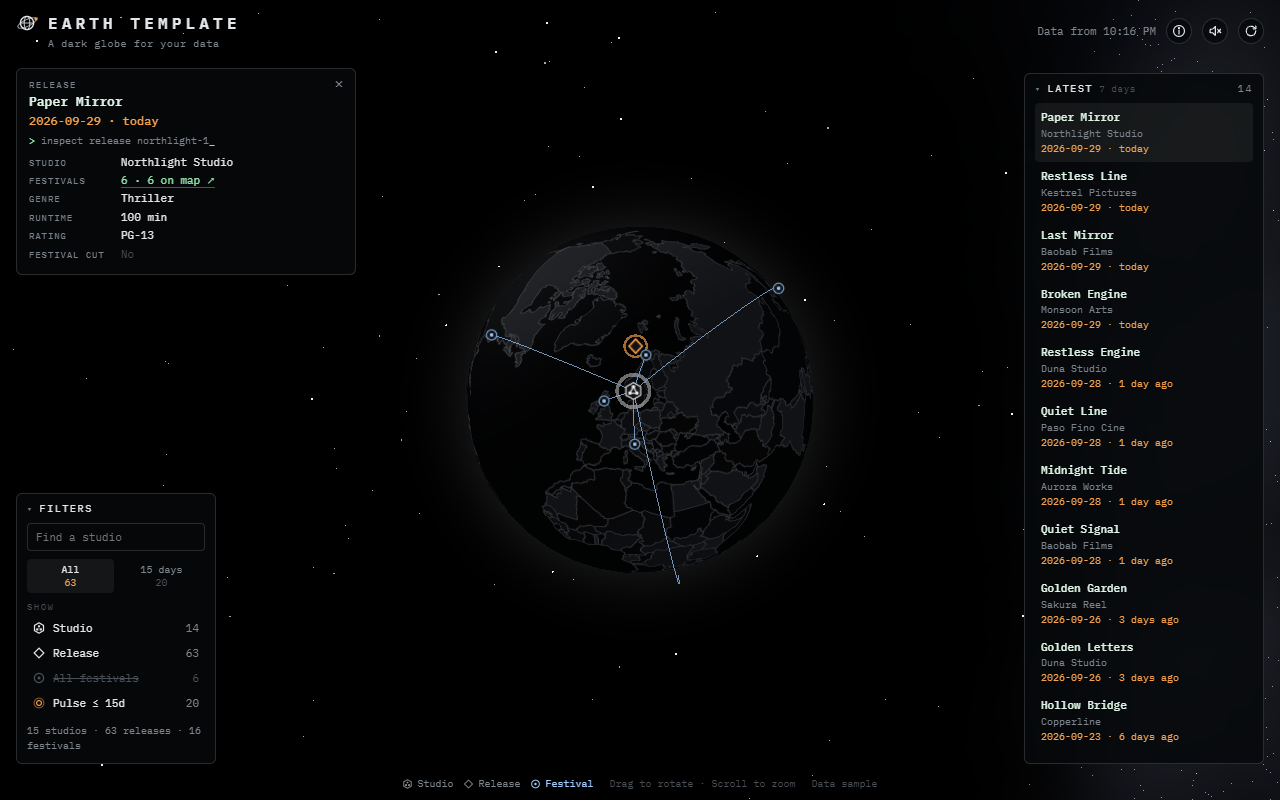
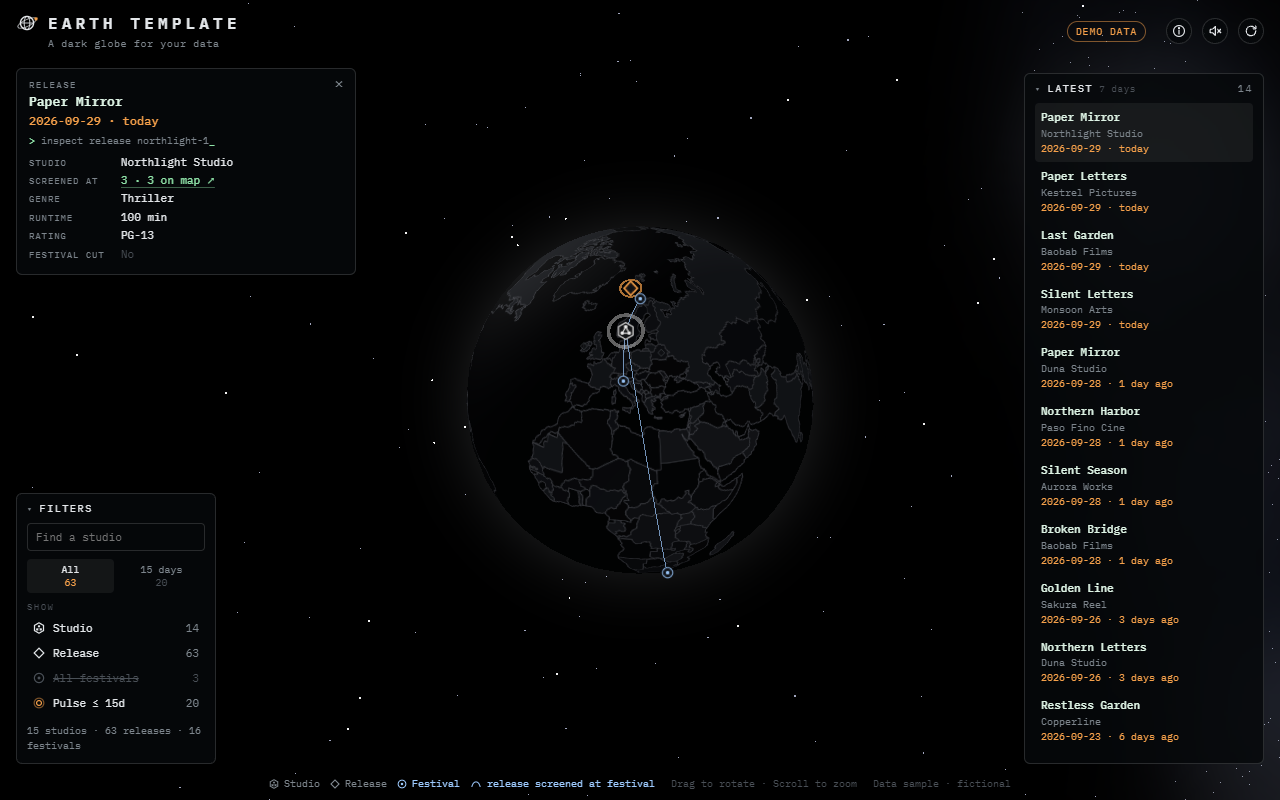
Make the demo data obviously fake and say what arcs mean
Add config.link so cards and the legend name the relationship an arc shows,
and config.demo for a "Demo data" badge that replaces the fake timestamp.
Sample releases link to fewer festivals, and the docs say the links are random.
Recapture the README media.

diff --git a/src/app.ts b/src/app.ts
@@ -62,6 +62,7 @@ function paintChrome() {
   setText("#key-hub", K.hub.one);
   setText("#key-item", K.item.one);
   setText("#key-node", K.node.one);
+  setText("#key-arc", `${low(K.item.one)} ${config.link.item} ${low(K.node.one)}`);
   $("#cat-node").title = `Show every ${low(K.node.one)}, not just the ones tied to your selection`;
 
   setText("#about-title", config.name);
@@ -77,6 +78,10 @@ function paintChrome() {
     wrap.append(dt, dd);
     rows.append(wrap);
   }
+  const demoBadge = $("#demo-badge");
+  demoBadge.hidden = !config.demo;
+  demoBadge.textContent = config.copy.demo;
+  demoBadge.title = config.copy.demoTitle;
   const credit = $("#credit");
   credit.append(`${config.credit.label} `);
   if (config.credit.href) {
@@ -363,7 +368,7 @@ function paintCounts(shownHubs: HubRow[], pinnedNodes: NodeRow[]) {
   setText("#count-item", String(recentOnly ? fresh : items.length));
   setText("#count-node", String(pinnedNodes.filter((row) => spot(row)).length));
   setText("#count-pulse", String(fresh));
-  if (!clockHold) clockEl.textContent = updatedAt ? config.copy.stamp(clock(new Date(updatedAt))) : "";
+  if (!clockHold) clockEl.textContent = stampText();
   if (!globe.ready) statusEl.textContent = config.copy.noWebGL;
   else if (notice) statusEl.textContent = notice;
   else statusEl.textContent = `${hubs.length} ${low(K.hub.many)} · ${items.length} ${low(K.item.many)} · ${nodes.length} ${low(K.node.many)}`;
@@ -428,7 +433,7 @@ function paintCard(hub: HubRow | null, item: ItemRow | null, itemNodes: NodeRow[
     const owners = [...new Set(linked.map((row) => hubById.get(row.hub)?.name).filter(Boolean))];
     kind(K.node.one, node.id);
     setText("#card-name", node.name);
-    setText("#card-when", `${linked.length} ${low(linked.length === 1 ? K.item.one : K.item.many)} linked`);
+    setText("#card-when", `${linked.length} ${low(linked.length === 1 ? K.item.one : K.item.many)} ${config.link.node}`);
     if (item) addFact(body, "For", item.name);
     addFact(body, K.hub.many, owners.join(" · ") || "—");
     addFact(body, "Place", node.place ?? "No pin");
@@ -440,8 +445,9 @@ function paintCard(hub: HubRow | null, item: ItemRow | null, itemNodes: NodeRow[
     setText("#card-name", item.name);
     setText("#card-when", dateLine(item));
     addFact(body, K.hub.one, hub.name);
-    if (mapped.length) addFact(body, K.node.many, summary, () => frameNodes(hub, mapped));
-    else addFact(body, K.node.many, summary);
+    const arcLabel = config.link.item[0].toUpperCase() + config.link.item.slice(1);
+    if (mapped.length) addFact(body, arcLabel, summary, () => frameNodes(hub, mapped));
+    else addFact(body, arcLabel, summary);
     extra(item.facts);
   } else if (hub) {
     const own = hubItems(hub.id);
@@ -541,12 +547,16 @@ function capCard() {
 
 /** While set, the top-bar time shows a short message instead of the data time. */
 let clockHold = 0;
+/** The "Data from …" line. Sample data has no real time to show, so demo mode leaves it blank. */
+function stampText() {
+  return updatedAt && !config.demo ? config.copy.stamp(clock(new Date(updatedAt))) : "";
+}
 function flashClock(message: string) {
   window.clearTimeout(clockHold);
   clockEl.textContent = message;
   clockHold = window.setTimeout(() => {
     clockHold = 0;
-    clockEl.textContent = updatedAt ? config.copy.stamp(clock(new Date(updatedAt))) : "";
+    clockEl.textContent = stampText();
   }, 3500);
 }
 

diff --git a/src/config.ts b/src/config.ts
@@ -29,6 +29,19 @@ export const config = {
   } satisfies Record<"hub" | "item" | "node", KindName>,
 
   /**
+   * What an arc means, in words. Selecting an item draws arcs from its hub to each node it links to.
+   * item: the item's side ("Release screened at 5 festivals"). node: the node's side ("3 releases screened here").
+   * The legend at the bottom reads "release screened at festival" from these, so a visitor never has to guess.
+   */
+  link: { item: "screened at", node: "screened here" },
+
+  /**
+   * Set to true while the app shows sample data: a "Demo data" badge appears in the top bar and the
+   * "Data from …" timestamp is hidden, so nobody mistakes the sample for live data. Remove it (or set false) with real data.
+   */
+  demo: true,
+
+  /**
    * Dates on items drive the "recent" window, the Latest list, and the pulse on fresh hubs.
    * Set `enabled: false` if your items have no dates; those three parts are hidden.
    */
@@ -49,6 +62,7 @@ export const config = {
       "A dark, interactive Earth with a space backdrop, sound, and cards. The data shown here is a sample: fictional studios, releases, and festivals.",
     rows: [
       { label: "Data", html: "Sample data generated in <code>data/sample.ts</code>. Replace it with your own." },
+      { label: "Arcs", html: "An arc joins an item's hub to a node it is linked to. In the sample the links are random, so the arcs mean nothing." },
       { label: "Map", html: "Natural Earth country outlines, via world-atlas." },
       {
         label: "License",
@@ -59,11 +73,13 @@ export const config = {
   },
 
   /** The credit in the footer. Leave `href` empty for plain text. */
-  credit: { label: "Data", text: "sample", href: "" },
+  credit: { label: "Data", text: "sample · fictional", href: "" },
 
   /** Status and notice wording. */
   copy: {
     loading: "Loading…",
+    demo: "Demo data",
+    demoTitle: "This is made-up sample data, not real",
     stamp: (time: string) => `Data from ${time}`,
     refreshTitle: "Check for newer data",
     upToDate: "Up to date",

diff --git a/src/style.css b/src/style.css
@@ -50,6 +50,18 @@ button { cursor: pointer; }
 .dot { width: 7px; height: 7px; border-radius: 50%; background: var(--ink); box-shadow: 0 0 0 2px rgba(255, 255, 255, 0.12); }
 .topbar-right { display: flex; align-items: center; gap: 10px; }
 .clock { color: var(--muted); font-size: 11px; }
+/* Shown while config.demo is on, so sample data is never mistaken for real data. */
+.demo-badge {
+  padding: 3px 8px;
+  border: 1px solid rgba(245, 160, 74, 0.5);
+  border-radius: 999px;
+  color: var(--accent);
+  font-size: 10px;
+  letter-spacing: 0.08em;
+  text-transform: uppercase;
+  white-space: nowrap;
+}
+.demo-badge[hidden] { display: none; }
 .icon-btn {
   display: grid;
   place-items: center;
@@ -239,6 +251,8 @@ button { cursor: pointer; }
 .hint .key span { display: inline-flex; align-items: center; gap: 5px; }
 .hint .key .mark { width: 10px; height: 10px; }
 .hint .key .node { color: var(--node); }
+.hint .key .arc { color: var(--node); }
+.hint .key .arc .mark { width: 12px; }
 .hint .credit a { pointer-events: auto; color: var(--muted); text-underline-offset: 3px; }
 .hint .credit a:hover { color: var(--ink); }
 
@@ -358,8 +372,11 @@ button { cursor: pointer; }
 }
 /* Phones: the bottom belongs to the panels and the sheet, so the legend sits under the logo. */
 @media (max-width: 600px) {
-  .hint { top: 58px; bottom: auto; left: 16px; transform: none; gap: 12px; }
+  .hint { top: 58px; bottom: auto; left: 16px; transform: none; gap: 4px 12px; flex-wrap: wrap; max-width: calc(100vw - 132px); }
+  .hint .key { flex-wrap: wrap; gap: 4px 10px; }
   .clock { display: none; }
+  /* No room in the top bar on a phone, so the badge sits at the right edge of the legend row. */
+  .demo-badge { position: fixed; top: 56px; right: 16px; z-index: 3; }
   #app[data-card="open"] .hint { display: flex; }
   .about { top: auto; bottom: 0; right: 0; left: 0; width: 100%; max-height: 60vh; border-radius: 12px 12px 0 0; }
 }

diff --git a/index.html b/index.html
@@ -21,6 +21,7 @@
           <p class="tagline" id="tagline"></p>
         </div>
         <div class="topbar-right">
+          <span id="demo-badge" class="demo-badge" hidden></span>
           <span id="clock" class="clock"></span>
           <button id="about-btn" class="icon-btn" type="button" aria-expanded="false" aria-controls="about">
             <svg viewBox="0 0 16 16" width="14" height="14" aria-hidden="true"><circle cx="8" cy="8" r="6.2" fill="none" stroke="currentColor" stroke-width="1.3"/><path d="M8 7.2v4" stroke="currentColor" stroke-width="1.4" stroke-linecap="round"/><circle cx="8" cy="4.9" r=".9" fill="currentColor"/></svg>
@@ -92,6 +93,7 @@
           <span><svg class="mark" viewBox="0 0 12 12" aria-hidden="true"><path d="M6 .8 10.5 3.4v5.2L6 11.2 1.5 8.6V3.4Z" fill="none" stroke="currentColor" stroke-width="1.2"/><circle cx="6" cy="4.3" r="1.1" fill="currentColor"/><circle cx="4.2" cy="7.4" r="1.1" fill="currentColor"/><circle cx="7.8" cy="7.4" r="1.1" fill="currentColor"/></svg><span id="key-hub"></span></span>
           <span><svg class="mark" viewBox="0 0 12 12" aria-hidden="true"><path d="M6 1.2 10.8 6 6 10.8 1.2 6Z" fill="none" stroke="currentColor" stroke-width="1.2"/></svg><span id="key-item"></span></span>
           <span class="node"><svg class="mark" viewBox="0 0 12 12" aria-hidden="true"><circle cx="6" cy="6" r="4.6" fill="none" stroke="currentColor" stroke-width="1.2"/><circle cx="6" cy="6" r="1.4" fill="currentColor"/></svg><span id="key-node"></span></span>
+          <span class="arc"><svg class="mark" viewBox="0 0 12 12" aria-hidden="true"><path d="M1 9.5C3 1.5 9 1.5 11 9.5" fill="none" stroke="currentColor" stroke-width="1.2" stroke-linecap="round"/></svg><span id="key-arc"></span></span>
         </span>
         <span class="how">Drag to rotate · Scroll to zoom</span>
         <span class="credit" id="credit"></span>

diff --git a/data/sample.ts b/data/sample.ts
@@ -91,9 +91,9 @@ export function sampleDataset(now = new Date()): Dataset {
           ["Festival cut", rand() > 0.5 ? "Yes" : "No"],
         ],
       });
-      // Each release screened at three to seven festivals.
+      // Each release "screened at" two to four festivals. Picked at random: the arcs are a demo, not real screenings.
       const chosen = new Set<string>();
-      const target = 3 + Math.floor(rand() * 5);
+      const target = 2 + Math.floor(rand() * 3);
       while (chosen.size < target) chosen.add(pick(nodes).id);
       for (const node of chosen) links.push({ item: id, node });
     }

diff --git a/docs/CUSTOMIZING.md b/docs/CUSTOMIZING.md
@@ -9,6 +9,8 @@ Turning the template into your app is mostly two files: `src/config.ts` for word
 | `id` | Prefix for browser storage (saved data, sound on/off). Change it per app so two apps on one domain don't share it. |
 | `name`, `tagline`, `description` | The wordmark, the line under it, the page title, and the meta description. |
 | `kinds` | What the hub, item, and node are called (`one` and `many`). These words appear on the card, the legend, the filters, and tooltips. |
+| `link` | What an arc means, in words: `item` ("screened at") and `node` ("screened here"). They label the card rows and the arc key in the legend, so visitors know what a line between two pins says. |
+| `demo` | `true` shows a "Demo data" badge and hides the "Data from …" time. Delete it or set `false` once your own data is in. |
 | `dates` | `enabled`, `recentDays`, `latestDays`. Dates on items drive the recent window, the Latest list, and the pulse on fresh hubs. Set `enabled: false` if your items have no dates and those three parts are hidden. |
 | `fanLimit`, `latestLimit` | How many items ring a selected hub, and how many rows the Latest list shows. |
 | `refreshMinutes` | How often an open tab quietly checks for newer data. |
@@ -32,6 +34,7 @@ Text in `about.rows[].html` is inserted as HTML. It is yours, not user data, so 
 }
 ```
 
+- **Arcs.** An arc means "this item is linked to that node". Only draw arcs for a relationship you can name, then put that name in `config.link`. The sample's links are random.
 - **Pins.** A hub or node is pinned only if it has both `lat` and `lng`. Without them it still appears in lists and search, and its card says "No pin".
 - **Facts.** `facts` are the extra rows on a card: `[label, value]` or `[label, value, "https://link"]`. Only `https://` links are made clickable. The values `Yes` and `Open` show green and `No` shows dim.
 - **Ids.** They only need to be unique within their own kind.

diff --git a/README.md b/README.md
@@ -6,13 +6,13 @@
 
 Earth Template is a ready-made interactive Earth for a data set where things sit on a map and connect to each other. It was extracted from Modex, an app that shows the AI model catalog on a globe. The look and feel are done. You supply the data and the wording.
 
-The demo data is made up: film studios, their releases, and the festivals that screened them.
+The demo data is entirely fictional: film studios, their releases, and the festivals that screened them. The places are real cities, used only as map positions, and the links (so the arcs) are random. The app shows a "Demo data" badge until you set `demo: false` in `src/config.ts`.
 
 ## What's included
 
 - **The globe.** Dark country tiles with a soft rim of light. Drag to spin, scroll to zoom. Nearby pins group into numbered badges, and one click fans a badge out.
 - **Space.** A faint Milky Way, stars, distant shooting stars, a few drifting asteroids, and satellites circling the globe.
-- **Cards.** Select something and a card opens with rows taken straight from your data. Selecting an item draws arcs to everything it links to.
+- **Cards.** Select something and a card opens with rows taken straight from your data. Selecting an item draws arcs to everything it links to, and the legend names what an arc means ("release screened at festival"). You set that wording in `config.link`.
 - **Panels.** Filters and search, a Latest list, an About panel, and a legend that is always on screen.
 - **Sound.** Optional synthesized cues (nothing to download), off until the visitor turns them on.
 - **Phones.** The card becomes a bottom sheet, and the side panels fold away.
